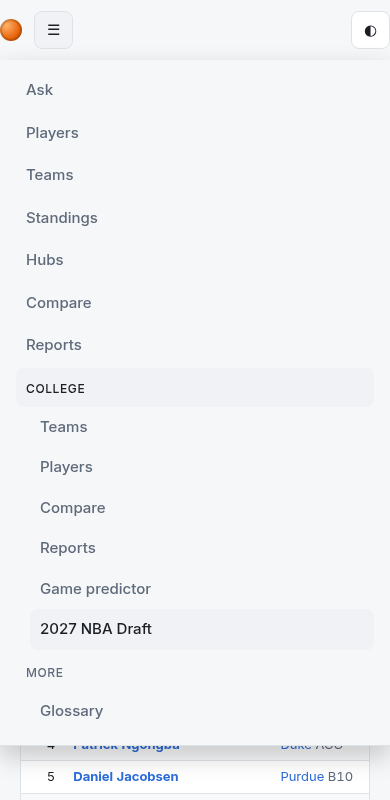
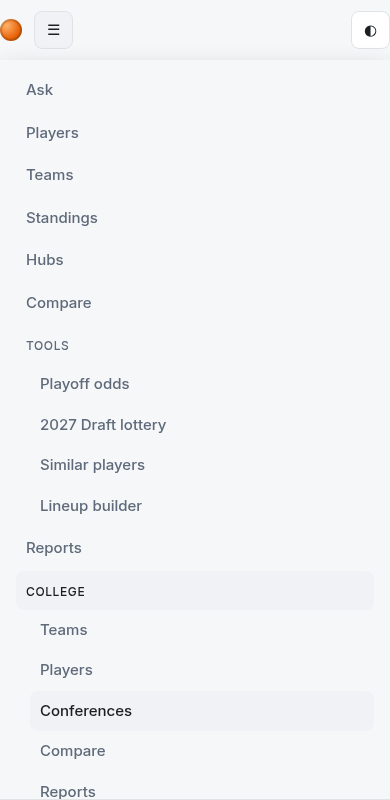
Nav highlighting: conference and college player detail pages highlight Conferences / Players in the College menu; Tools pages verified

diff --git a/js/nav.js b/js/nav.js
@@ -29,7 +29,10 @@ window.addEventListener("hashchange", closeMenus);
 
 // Highlight the dropdown item for the current page (longest matching link wins, e.g. #/college/reports over #/college).
 function markCurrent() {
-  const h = (location.hash || "#/").split("?")[0];
+  // Detail pages map to the list page they belong to (#/college/conference/B10 -> Conferences, #/college/player/1 -> Players).
+  const h = (location.hash || "#/").split("?")[0]
+    .replace(/^#\/college\/conference\/.*/, "#/college/conferences").replace(/^#\/college\/player\/.*/, "#/college/players")
+    .replace(/^#\/college\/teams$/, "#/college");
   const links = [...document.querySelectorAll(".nav-menu a")];
   links.forEach((a) => a.classList.remove("current"));
   const hits = links.filter((a) => { const href = a.getAttribute("href"); return h === href || h.startsWith(href + "/"); });
